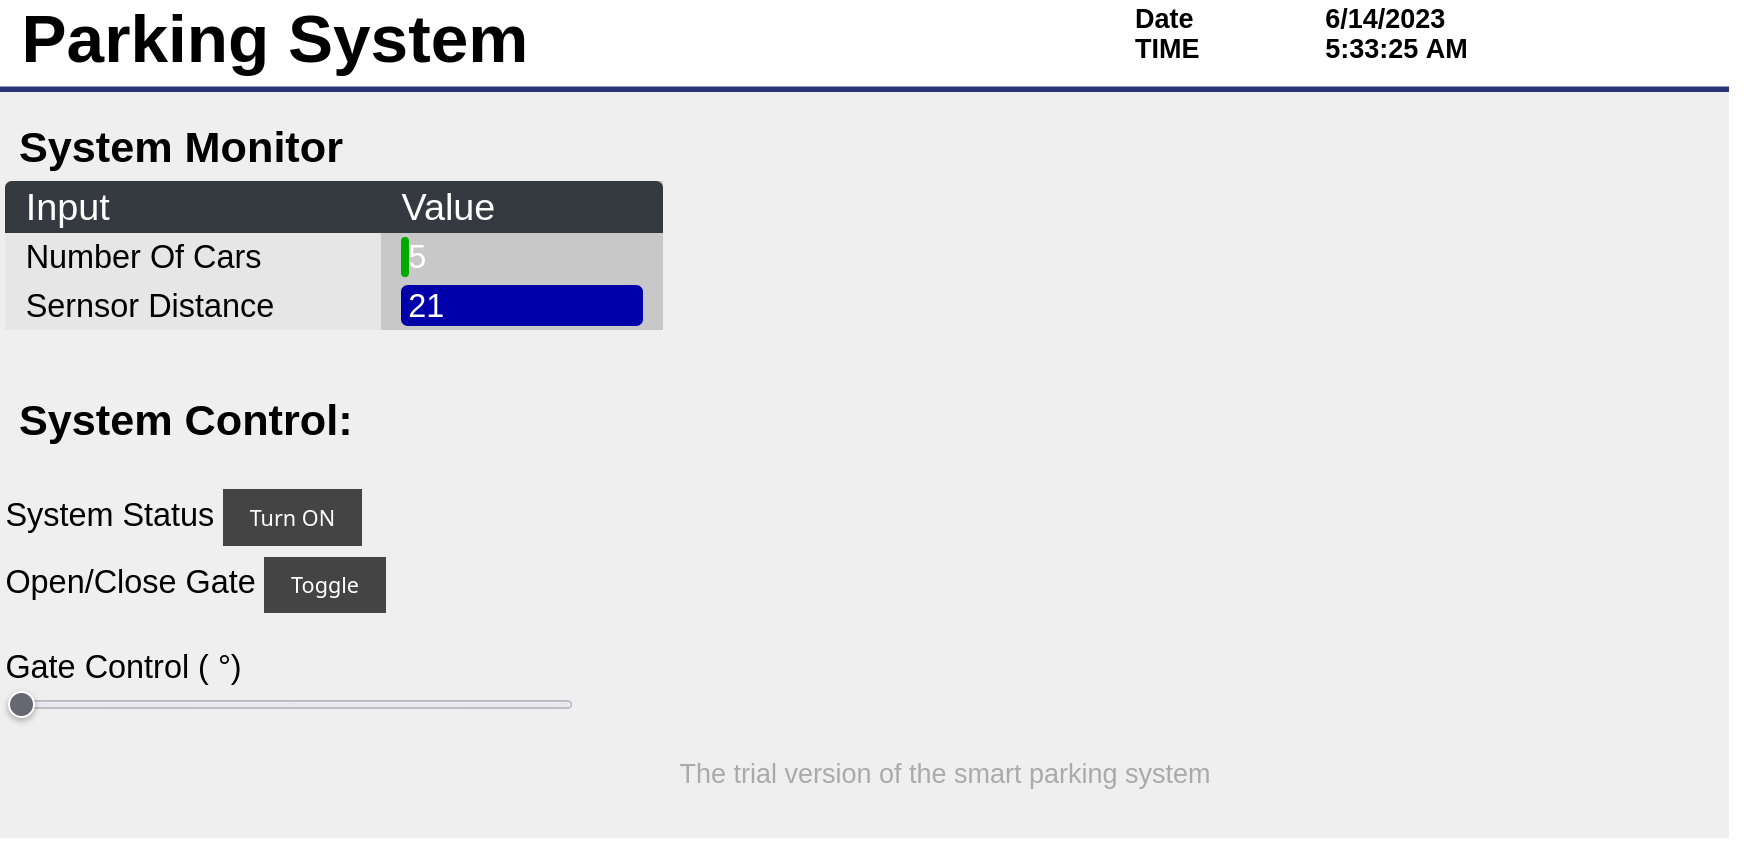
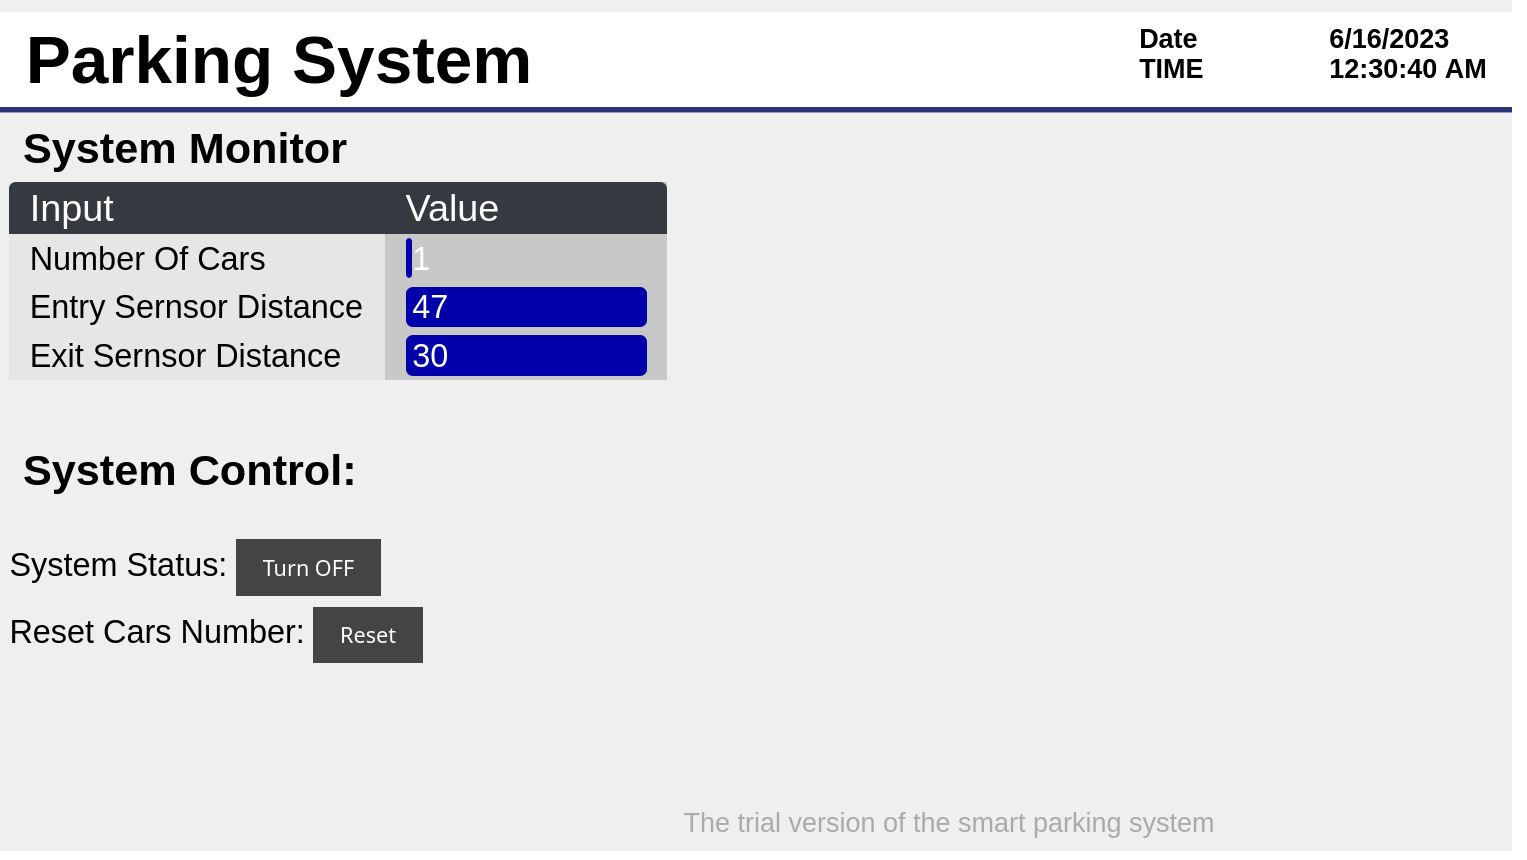
add some features

Changed region(s): [[0.0, 0.0, 0.9849, 0.461], [0.0, 0.461, 0.277, 0.8605], [0.4001, 0.8913, 0.8003, 0.9835]]

diff --git a/code/webpage.h b/code/webpage.h
@@ -201,10 +201,20 @@ const char PAGE_MAIN[] PROGMEM = R"=====(
                 </tr>
                 <tr>
                     <td>
-                        <div class="bodytext">Sernsor Distance</div>
+                        <div class="bodytext">Entry Sernsor Distance</div>
                     </td>
                     <td>
                         <div class="tabledata" id="b1"></div>
+                    </td>
+                    
+                </tr>
+
+                 <tr>
+                    <td>
+                        <div class="bodytext">Exit Sernsor Distance</div>
+                    </td>
+                    <td>
+                        <div class="tabledata" id="b2"></div>
                     </td>
                     
                 </tr>
@@ -214,20 +224,17 @@ const char PAGE_MAIN[] PROGMEM = R"=====(
         <br>
         <div class="category"> System Control:</div>
         <br>
-        <div class="bodytext"> System Status</div>
+        <div class="bodytext"> System Status:</div>
         <button type="button" class="btn" id="btn0" onclick="ButtonPress0()">Toggle</button>
         </div>
         <br>
-        <div class="bodytext">Open/Close Gate</div>
-        <button type="button" class="btn" id="btn1" onclick="ButtonPress1()">Toggle</button>
+        <div class="bodytext">Reset Cars Number:</div>
+        <button type="button" class="btn" id="btn1" onclick="ButtonPress1()">Reset</button>
+        <p id="reset-noti" ></p>
         </div>
         <br>
         <br>
-        <div class="bodytext">Gate Control ( <span id="fanrpm"></span>&#176)</div>
-
-        <br>
-        <input type="range" class="fanrpmslider" min="15" max="90" value="0" width="0%"
-            oninput="UpdateSlider(this.value)" />
+    
         <br>
         <br>
     </main>
@@ -274,18 +281,28 @@ const char PAGE_MAIN[] PROGMEM = R"=====(
         xhttp.open("PUT", "BUTTON_0", false);
         xhttp.send();
     }
-    // function to handle button press from HTML code above
-    // and send a processing string back to server
-    // this processing string is use in the .on method
+    
     function ButtonPress1() {
         var xhttp = new XMLHttpRequest();
-        /*
+       
         xhttp.onreadystatechange = function() {
+          console.log(this.responseText);
+          
           if (this.readyState == 4 && this.status == 200) {
-            document.getElementById("button1").innerHTML = this.responseText;
-          }
-        }
-        */
+              document.getElementById("reset-noti").innerHTML = this.responseText;
+              if(this.responseText=='true'){
+                document.getElementById("reset-noti").innerHTML="CARS RESET SUCCESSFULLY";
+                document.getElementById("reset-noti").style.color='green';
+              }
+            else{
+              document.getElementById("reset-noti").innerHTML="THERE IS A CAR TRY ENTER OR EXIT";
+              document.getElementById("reset-noti").style.color='red';
+            }
+           
+          }  
+         }
+      
+        
         xhttp.open("PUT", "BUTTON_1", false);
         xhttp.send();
     }
@@ -331,7 +348,7 @@ const char PAGE_MAIN[] PROGMEM = R"=====(
         xmldoc = xmlResponse.getElementsByTagName("B0"); //bits for A0
         message = xmldoc[0].firstChild.nodeValue;
 
-        if (message > 2048) {
+        if (message > 10) {
             color = "#aa0000";
         }
         else {
@@ -343,19 +360,40 @@ const char PAGE_MAIN[] PROGMEM = R"=====(
         document.getElementById("b0").style.width = (barwidth + "%");
         // if you want to use global color set above in <style> section
         // other wise uncomment and let the value dictate the color
-        //document.getElementById("b0").style.backgroundColor=color;
+        document.getElementById("b0").style.backgroundColor=color;
         //document.getElementById("b0").style.borderRadius="5px";
 
         
         // A1
         xmldoc = xmlResponse.getElementsByTagName("B1");
         message = xmldoc[0].firstChild.nodeValue;
-      
+          if (message > 100) {
+            color = "#aa0000";
+        }
+        else {
+            color = "#0000aa";
+        }
+
         document.getElementById("b1").innerHTML = message;
         width = message / 40.95;
         //document.getElementById("b1").style.width = (width + "%");
         document.getElementById("b1").style.backgroundColor = color;
         //document.getElementById("b1").style.borderRadius="5px";
+
+        
+          xmldoc = xmlResponse.getElementsByTagName("B2");
+        message = xmldoc[0].firstChild.nodeValue;
+          if (message > 100) {
+            color = "#aa0000";
+        }
+        else {
+            color = "#0000aa";
+        }
+
+        document.getElementById("b2").innerHTML = message;
+        width = message / 40.95;
+        //document.getElementById("b1").style.width = (width + "%");
+        document.getElementById("b2").style.backgroundColor = color;
 
         
         xmldoc = xmlResponse.getElementsByTagName("LED");
@@ -368,7 +406,8 @@ const char PAGE_MAIN[] PROGMEM = R"=====(
             document.getElementById("btn0").innerHTML = "Turn OFF";
         }
 
-        
+
+
     }
 
     // general processing code for the web page to ask for an XML steam

diff --git a/README.md b/README.md
@@ -27,18 +27,18 @@ online simulation with [circuito.io](https://www.circuito.io/static/reply/index.
 
 Components Pins | ESP Pins
 ------------  | ------------
-Ultrasonic one Trig pin | P23
-Ultrasonic one Echo pin | P22
+Ultrasonic one Trig pin | P33
+Ultrasonic one Echo pin | P25
 Ultrasonic one VCC pin | 5v
 Ultrasonic one GND pin | gnd
 Ultrasonic two Trig pin | 17
 Ultrasonic two Echo pin | 16
 Ultrasonic two VCC pin | 5v
 Ultrasonic two GND pin | gnd
-First servo input pin | 19
+First servo input pin | 32
 First servo VCC pin | 5v
 First servo GND pin | gnd
-Second servo input pin | 18
+Second servo input pin | 19
 Second servo VCC pin | 5v
 Second servo GND pin | gnd
 
